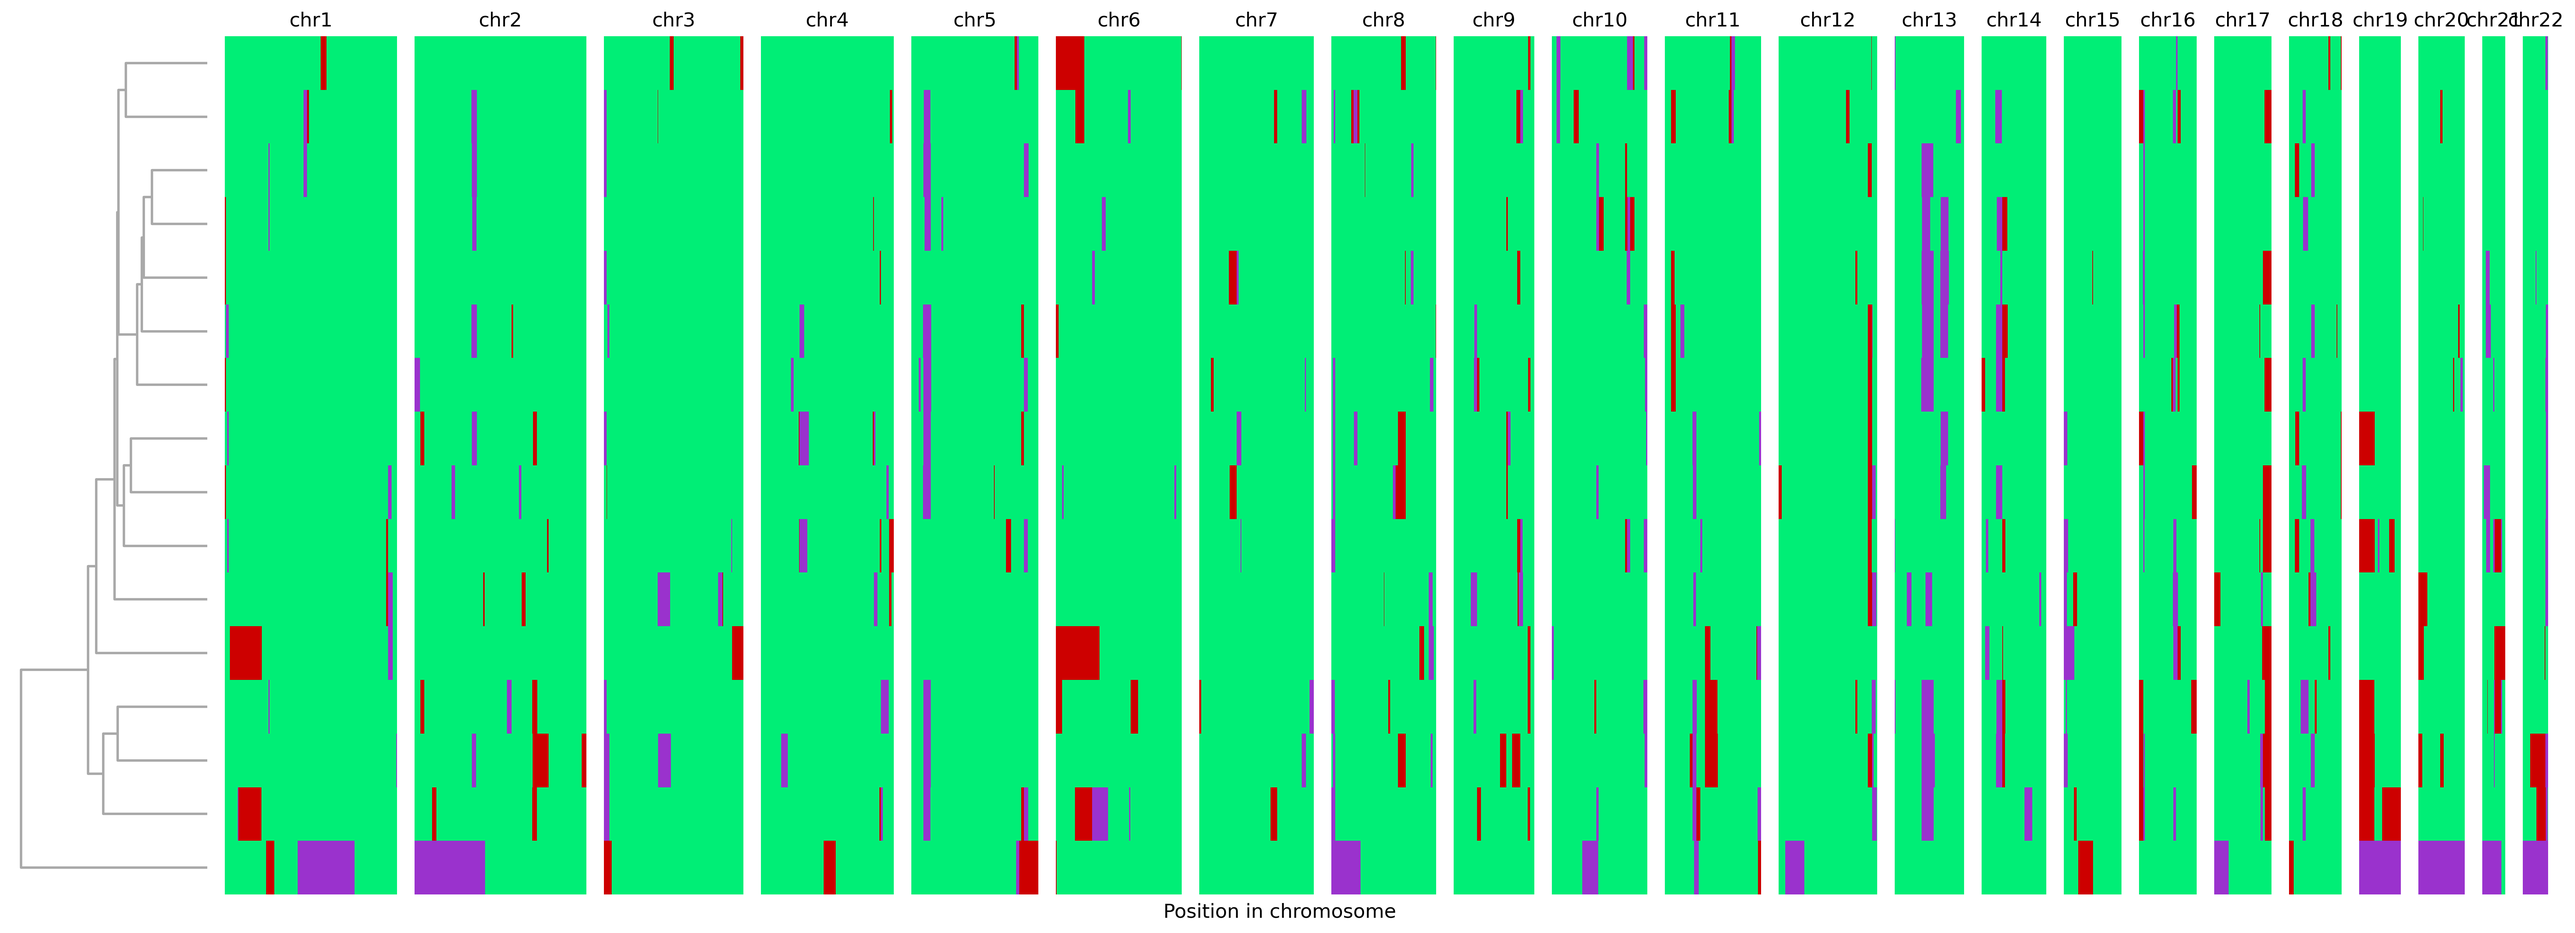
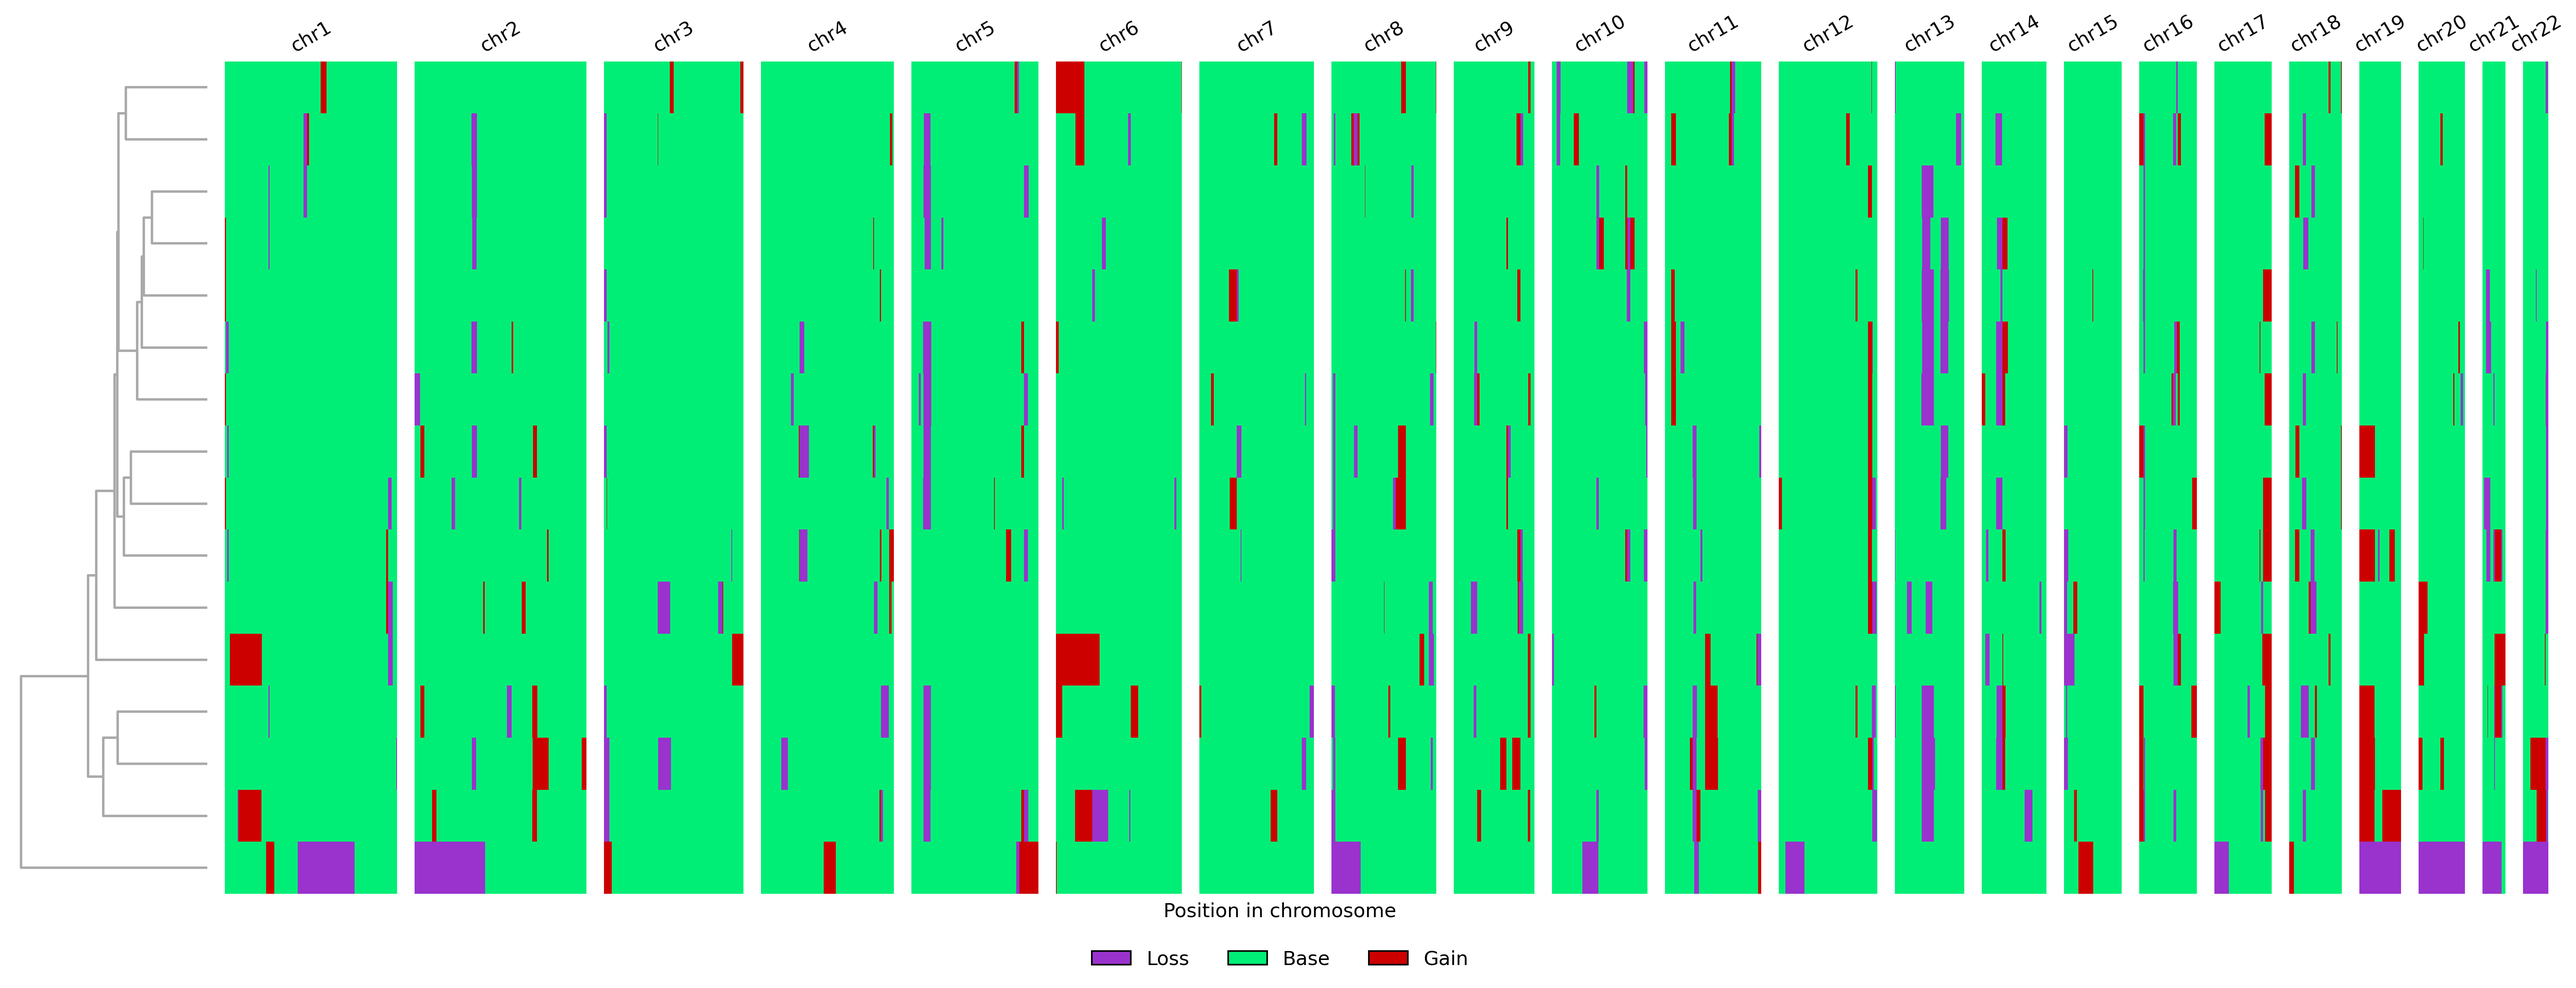
Extended plotting options

diff --git a/pyEpiAneufinder/evaluate_cnv_results.py b/pyEpiAneufinder/evaluate_cnv_results.py
@@ -1,7 +1,11 @@
 import pandas as pd
 from scipy.spatial.distance import pdist
-from scipy.cluster.hierarchy import linkage
+from scipy.cluster.hierarchy import linkage, fcluster, dendrogram
 
+import matplotlib.pyplot as plt
+import matplotlib.gridspec as gridspec
+from matplotlib.patches import Patch
+import seaborn as sns
 
 def split_subclones(res, num_clust):
     """
@@ -34,3 +38,122 @@ def split_subclones(res, num_clust):
 
     return clones
 
+
+
+def plot_karyo_annotated(res, plot_path, annot_dt=None, title_karyo=""):
+    """
+    Function to recreate the karyogram plot - optional with an annotation side bar
+
+    Parameters
+    ----------
+    res: Results from pyEpiAneufinder main function (as pandas data frame)
+    plot_path: path to save the karyogram
+    annot_dt: option to add an annotation side bar, requires a pandas DataFrame 
+              with barcodes as index and one column called "annot" as a categorical variable
+    title_karyo: Option to give a plot title 
+
+    Output
+    ------
+    Pandas data frame with two columns of barcode and subclone group
+    """
+    
+    #Remove position information (only CNVs kept)
+    data_matrix = res.drop(columns=["seq","start","end"])
+
+    #Calculate pairwise distances between cells
+    dist_matrix = pdist(data_matrix.T,metric="euclidean")
+
+    #Hierarchical clustering
+    Z = linkage(dist_matrix, method='ward')
+
+    #Get the relative percentage of entries per chromosome
+    chr_num_bins=res["seq"].value_counts(sort=False)
+    perc_chr = [chr / sum(chr_num_bins) for chr in chr_num_bins]
+
+    # Make sure the chromosomes are sorted in the correct order in the plots
+    res['seq'] = pd.Categorical(res['seq'], categories=chr_num_bins.index, ordered=True)
+
+    # Create a figure with a custom GridSpec layout
+    fig = plt.figure(figsize=(22, 8))
+
+    #Define size (dependent if an annotation column should be added)
+    if annot_dt is None:
+        gs = gridspec.GridSpec(1, len(perc_chr)+1, width_ratios=[2]+[20 * p for p in perc_chr])
+    else:
+        
+        #Check that set of barcodes is matching
+        if set(data_matrix.columns).difference(annot_dt.barcode):
+            raise ValueError(f"The annotation DataFrame contains not the same cells as in the results matrix!")
+        gs = gridspec.GridSpec(1, len(perc_chr)+2, width_ratios=[2]+[20 * p for p in perc_chr]+[0.5])
+
+    #Add the dendogram as the first column
+    ax = fig.add_subplot(gs[0, 0])
+    dendro = dendrogram(Z,orientation="left", link_color_func=lambda k: 'darkgrey',ax=ax)
+    #Remove the axes
+    ax.axis('off')
+
+    #Reorder the data matrix correctly
+    leaf_order = dendro['leaves']  # Extract the order of the leaves as a list
+    leaf_order = [l + 3 for l in leaf_order[::-1]] # Reverse the order and add + 3 (first three columns)
+    res = res.iloc[:, [0,1,2]+leaf_order]
+
+    if annot_dt is not None:
+        barcodes_order = data_matrix.columns[dendro['leaves'][::-1]]
+        annot_dt = annot_dt.loc[barcodes_order].reset_index()
+
+    # Iterate over each unique 'seq' and plot in the respective grid
+    for i, (seq, group) in enumerate(res.groupby('seq', observed=True)):
+        ax = fig.add_subplot(gs[0, i+1])  # Add a subplot to the GridSpec
+        data_filtered = group.drop(columns=["seq", "start", "end"])
+        
+        sns.heatmap(data_filtered.T, ax=ax, cmap=["#9A32CD", "#00EE76", "#CD0000"], vmin=0, vmax=2, cbar=False)
+        ax.set_title(seq, rotation=30)
+        
+        #Remove the axes ticks
+        ax.set_xticks([])
+        ax.set_yticks([])
+     
+    #Add a heatmap with annotations in the last subfigure if provided
+    if annot_dt is not None:
+        
+        annot_numeric = annot_dt["annot"].cat.codes.values.reshape(-1, 1)
+        labels_annot = annot_dt["annot"].cat.categories
+        
+        #Define the color palette
+        palette_annot = sns.color_palette("Set2",len(labels_annot))
+        ax_annot = fig.add_subplot(gs[0, -1])
+        sns.heatmap(annot_numeric, cbar=False, cmap=palette_annot, xticklabels=False, yticklabels=False)
+        ax_annot.set_title("Annot", rotation=30)
+        
+        #Create a legend for the annotation frame
+        annot_dict = dict(zip(labels_annot, palette_annot))
+        
+        annot_legend = [Patch(facecolor=annot_dict[label], edgecolor='black', label=str(label)) 
+                        for label in labels_annot]
+        
+        fig.legend(handles=annot_legend, loc='lower center', ncol= len(annot_legend),
+                fontsize=12, frameon=False,bbox_to_anchor=(0.5, -0.08))
+
+    # Add a common x-axis label
+    fig.text(0.5, 0.0, 'Position in chromosome', ha='center', va='center', fontsize=12)
+
+    # Add a legend below all plots for loss, base, gain
+    legend_elements = [Patch(facecolor="#9A32CD", edgecolor='black', label='Loss'),
+                       Patch(facecolor="#00EE76", edgecolor='black', label='Base'),
+                       Patch(facecolor="#CD0000", edgecolor='black', label='Gain')]
+
+    #Place legend dependent on whether there is a second legend from the annotation data frame
+    if annot_dt is not None:
+        fig.legend(handles=legend_elements, loc='upper right', ncol=3, fontsize=12, frameon=False,
+                   bbox_to_anchor=(1.0, 1.02))
+    else:
+        fig.legend(handles=legend_elements, loc='lower center', ncol=3, fontsize=12, frameon=False,
+                   bbox_to_anchor=(0.5, -0.08)) 
+
+    # Adjust layout
+    plt.subplots_adjust(bottom=0.2)
+
+    # Show the plot
+    plt.suptitle(title_karyo)
+    plt.tight_layout()
+    plt.savefig(plot_path, dpi=300, bbox_inches='tight')

diff --git a/pyEpiAneufinder/plotting.py b/pyEpiAneufinder/plotting.py
@@ -1,10 +1,10 @@
 import pandas as pd
-
 from scipy.spatial.distance import pdist
 from scipy.cluster.hierarchy import linkage, dendrogram
 
 import matplotlib.pyplot as plt
 import matplotlib.gridspec as gridspec
+from matplotlib.patches import Patch
 import seaborn as sns
 
 
@@ -61,14 +61,25 @@ def karyo_gainloss (res, outdir,title_karyo):
         data_filtered = group.drop(columns=["seq", "start", "end"])
         
         sns.heatmap(data_filtered.T, ax=ax, cmap=["#9A32CD", "#00EE76", "#CD0000"], vmin=0, vmax=2, cbar=False)
-        ax.set_title(seq)
+        ax.set_title(seq, rotation=30)
         
         #Remove the axes ticks
         ax.set_xticks([])
         ax.set_yticks([])
-        
+     
     # Add a common x-axis label
     fig.text(0.5, 0.0, 'Position in chromosome', ha='center', va='center', fontsize=12)
+
+    # Add a legend below all plots for loss, base, gain
+    legend_elements = [Patch(facecolor="#9A32CD", edgecolor='black', label='Loss'),
+                       Patch(facecolor="#00EE76", edgecolor='black', label='Base'),
+                       Patch(facecolor="#CD0000", edgecolor='black', label='Gain')]
+
+    fig.legend(handles=legend_elements, loc='lower center', ncol=3, fontsize=12, frameon=False,
+               bbox_to_anchor=(0.5, -0.08))
+
+    # Adjust layout
+    plt.subplots_adjust(bottom=0.2)
 
     # Show the plot
     plt.suptitle(title_karyo)

diff --git a/pyEpiAneufinder/__init__.py b/pyEpiAneufinder/__init__.py
@@ -4,4 +4,4 @@ from .distance_statistics import dist_ad, seq_dist_ad
 from .assign_somy import threshold_dist_values, assign_gainloss
 from .plotting import karyo_gainloss
 from .karyotype_metrics import compute_aneuploidy_across_sample, compute_aneuploidy_by_chr, compute_heterogeneity_across_sample, compute_heterogeneity_by_chr, compute_cnv_burden_cell
-from .evaluate_cnv_results import split_subclones
+from .evaluate_cnv_results import split_subclones, plot_karyo_annotated

diff --git a/README.md b/README.md
@@ -45,16 +45,30 @@ The main output is saved in the file `result_table.csv`, which contains the CNV 
 
 ### Splitting cells into clones
 
-TODO: write explanation text
+An easy approximation for identification of subclones in the dataset is splitting the hierarchical clustering using the function `split_subclones()`
+into a user-defined number of cluster `num_clust`.  
 
 ```
 import pyEpiAneufinder as pea
 import pandas as pd
 
 res = pd.read_csv("results_sample_data/result_table.csv",index_col=0)
-clones = pea.split_subclones(res, 4)
+clones = pea.split_subclones(res,num_clust=4)
 
 ```
+These subclones can be visualized as an annotation bar in the karygram using the function `plot_karyo_annotated()`. In general, this function can be applied on all kind of categorical annotations, such as cell types. It requires the annotation parameter as a pandas DataFrame with barcodes as indices (matching the column names of the results) and a column called `annot` with categorical values.
+
+```
+#Reformat to fullfill input requirements for plotting
+annot_dt = clones.copy()
+annot_dt.index = annot_dt.barcode
+annot_dt["annot"] = pd.Categorical("clone" + annot_dt.subclone.astype(str))
+
+pea.plot_karyo_annotated(res,"karyo_annot.png",
+                         annot_dt=annot_dt, title_karyo= "Karyogramm with annotation")
+```
+
+![Karyogram with annotation](sample_data/karyo_annot.png)
 
 ### Calculating karoygram metrics
 
